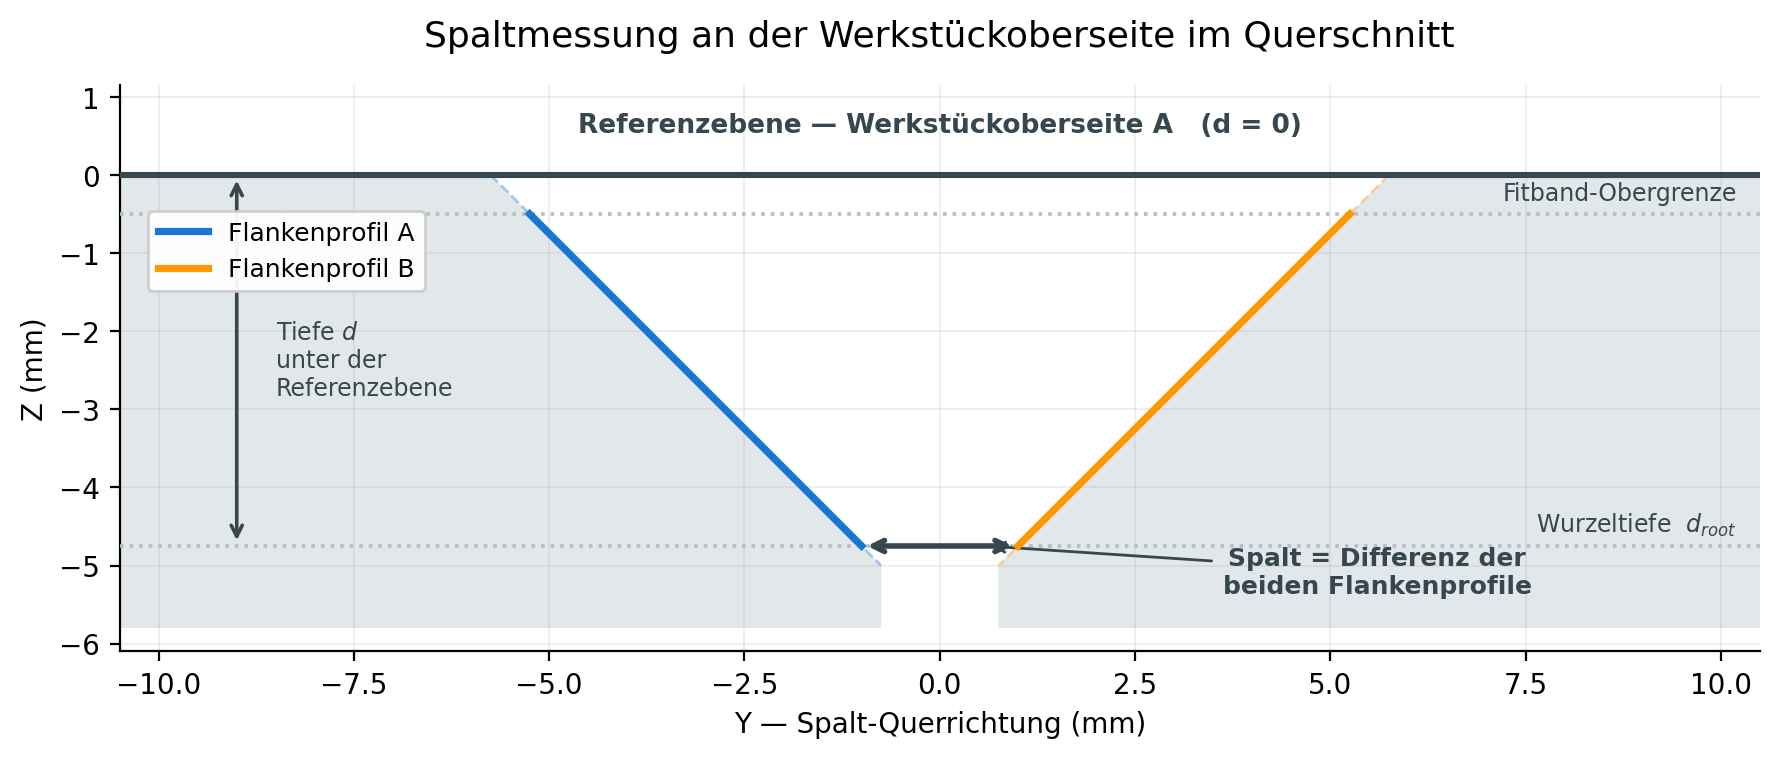
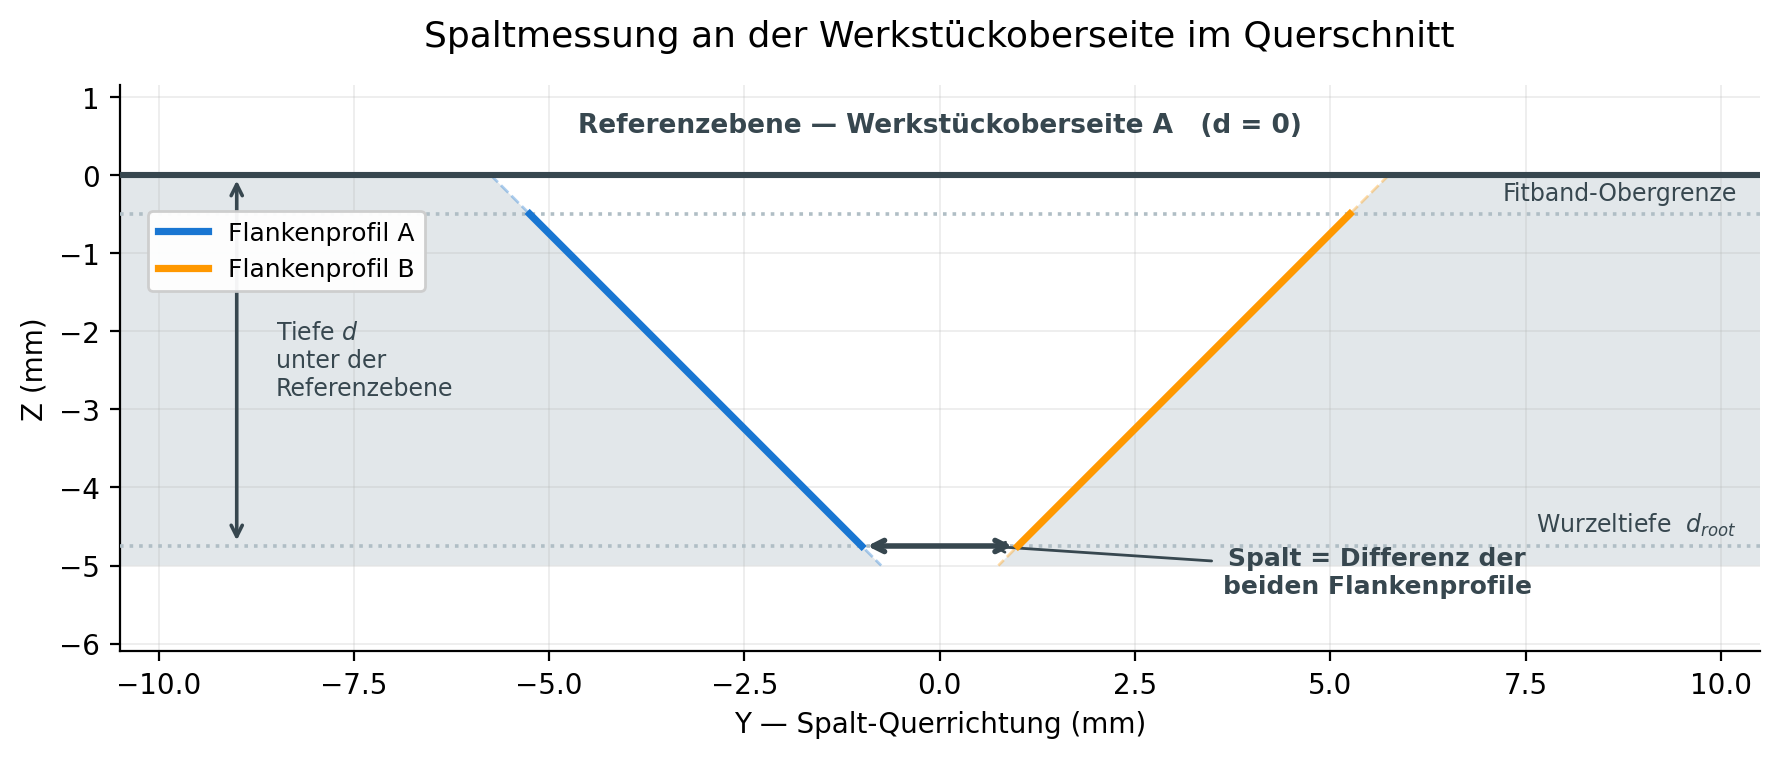
fix(docs): Blechquerschnitt endet am Wurzelspalt, nicht darunter
Der Werkstueckkoerper war in beiden Querschnitts-Abbildungen 0.8 mm tiefer
gezeichnet als die Flanken, was einen Wurzelsteg suggerierte und das Blech
dicker erscheinen liess als es ist. Dafuer gab es keinen sachlichen Grund -
das Polygon war beim Schliessen nach unten gezogen worden.

Am CAD geprueft: die Spaltbreite waechst als 1.5 + 2*z, von 1.500 mm an der
Unterseite (z=0) bis 11.500 mm an der Oberseite (z=5). Die Flanken laufen
also bis zur Unterseite durch, dort betraegt der Spalt genau das Sollmass.
Material unterhalb der Wurzel gibt es nicht.

Die Wurzelspalt-Bemassung in Bild 1 bleibt 0.45 mm unterhalb der Wurzel -
das ist eine versetzte Masslinie und stellt kein Material dar.

Changed region(s): [[0.5565, 0.7282, 0.9893, 0.8496], [0.0618, 0.7282, 0.4947, 0.8496]]

diff --git a/scripts/generate_methodik_figures.py b/scripts/generate_methodik_figures.py
@@ -97,8 +97,9 @@ def figure_axes_convention(path: Path):
     x_lim = 10.5
     for sign, c in ((-1, C_FLANK_A), (+1, C_FLANK_B)):
         y_top, y_out, y_root = sign * TOP_EDGE, sign * x_lim, sign * ROOT_GAP / 2
-        ax_cs.fill([y_root, y_top, y_out, y_out, y_root],
-                   [-THICK, 0, 0, -THICK - 0.8, -THICK - 0.8],
+        # Kein Wurzelsteg: das Blech schliesst mit dem Wurzelspalt ab.
+        ax_cs.fill([y_root, y_top, y_out, y_out],
+                   [-THICK, 0, 0, -THICK],
                    color=C_BODY, alpha=0.6, linewidth=0)
         ax_cs.plot([y_root, y_top], [-THICK, 0], color=c, linewidth=3.0)
     ax_cs.annotate("", xy=(-ROOT_GAP / 2, -THICK - 0.45),
@@ -140,8 +141,11 @@ def figure_cross_section(path: Path):
     for sign in (-1, +1):
         y_top, y_out = sign * TOP_EDGE, sign * x_lim
         y_root = sign * ROOT_GAP / 2
-        ax.fill([y_root, y_top, y_out, y_out, y_root],
-                [-THICK, 0, 0, -THICK - 0.8, -THICK - 0.8],
+        # Das Blech schliesst mit dem Wurzelspalt ab – kein Wurzelsteg. Im
+        # CAD waechst die Spaltbreite als 1.5 + 2*z, die Flanken laufen also
+        # bis zur Unterseite durch.
+        ax.fill([y_root, y_top, y_out, y_out],
+                [-THICK, 0, 0, -THICK],
                 color=C_BODY, alpha=0.6, zorder=1, linewidth=0)
 
     # Referenzebene (der Anker)
